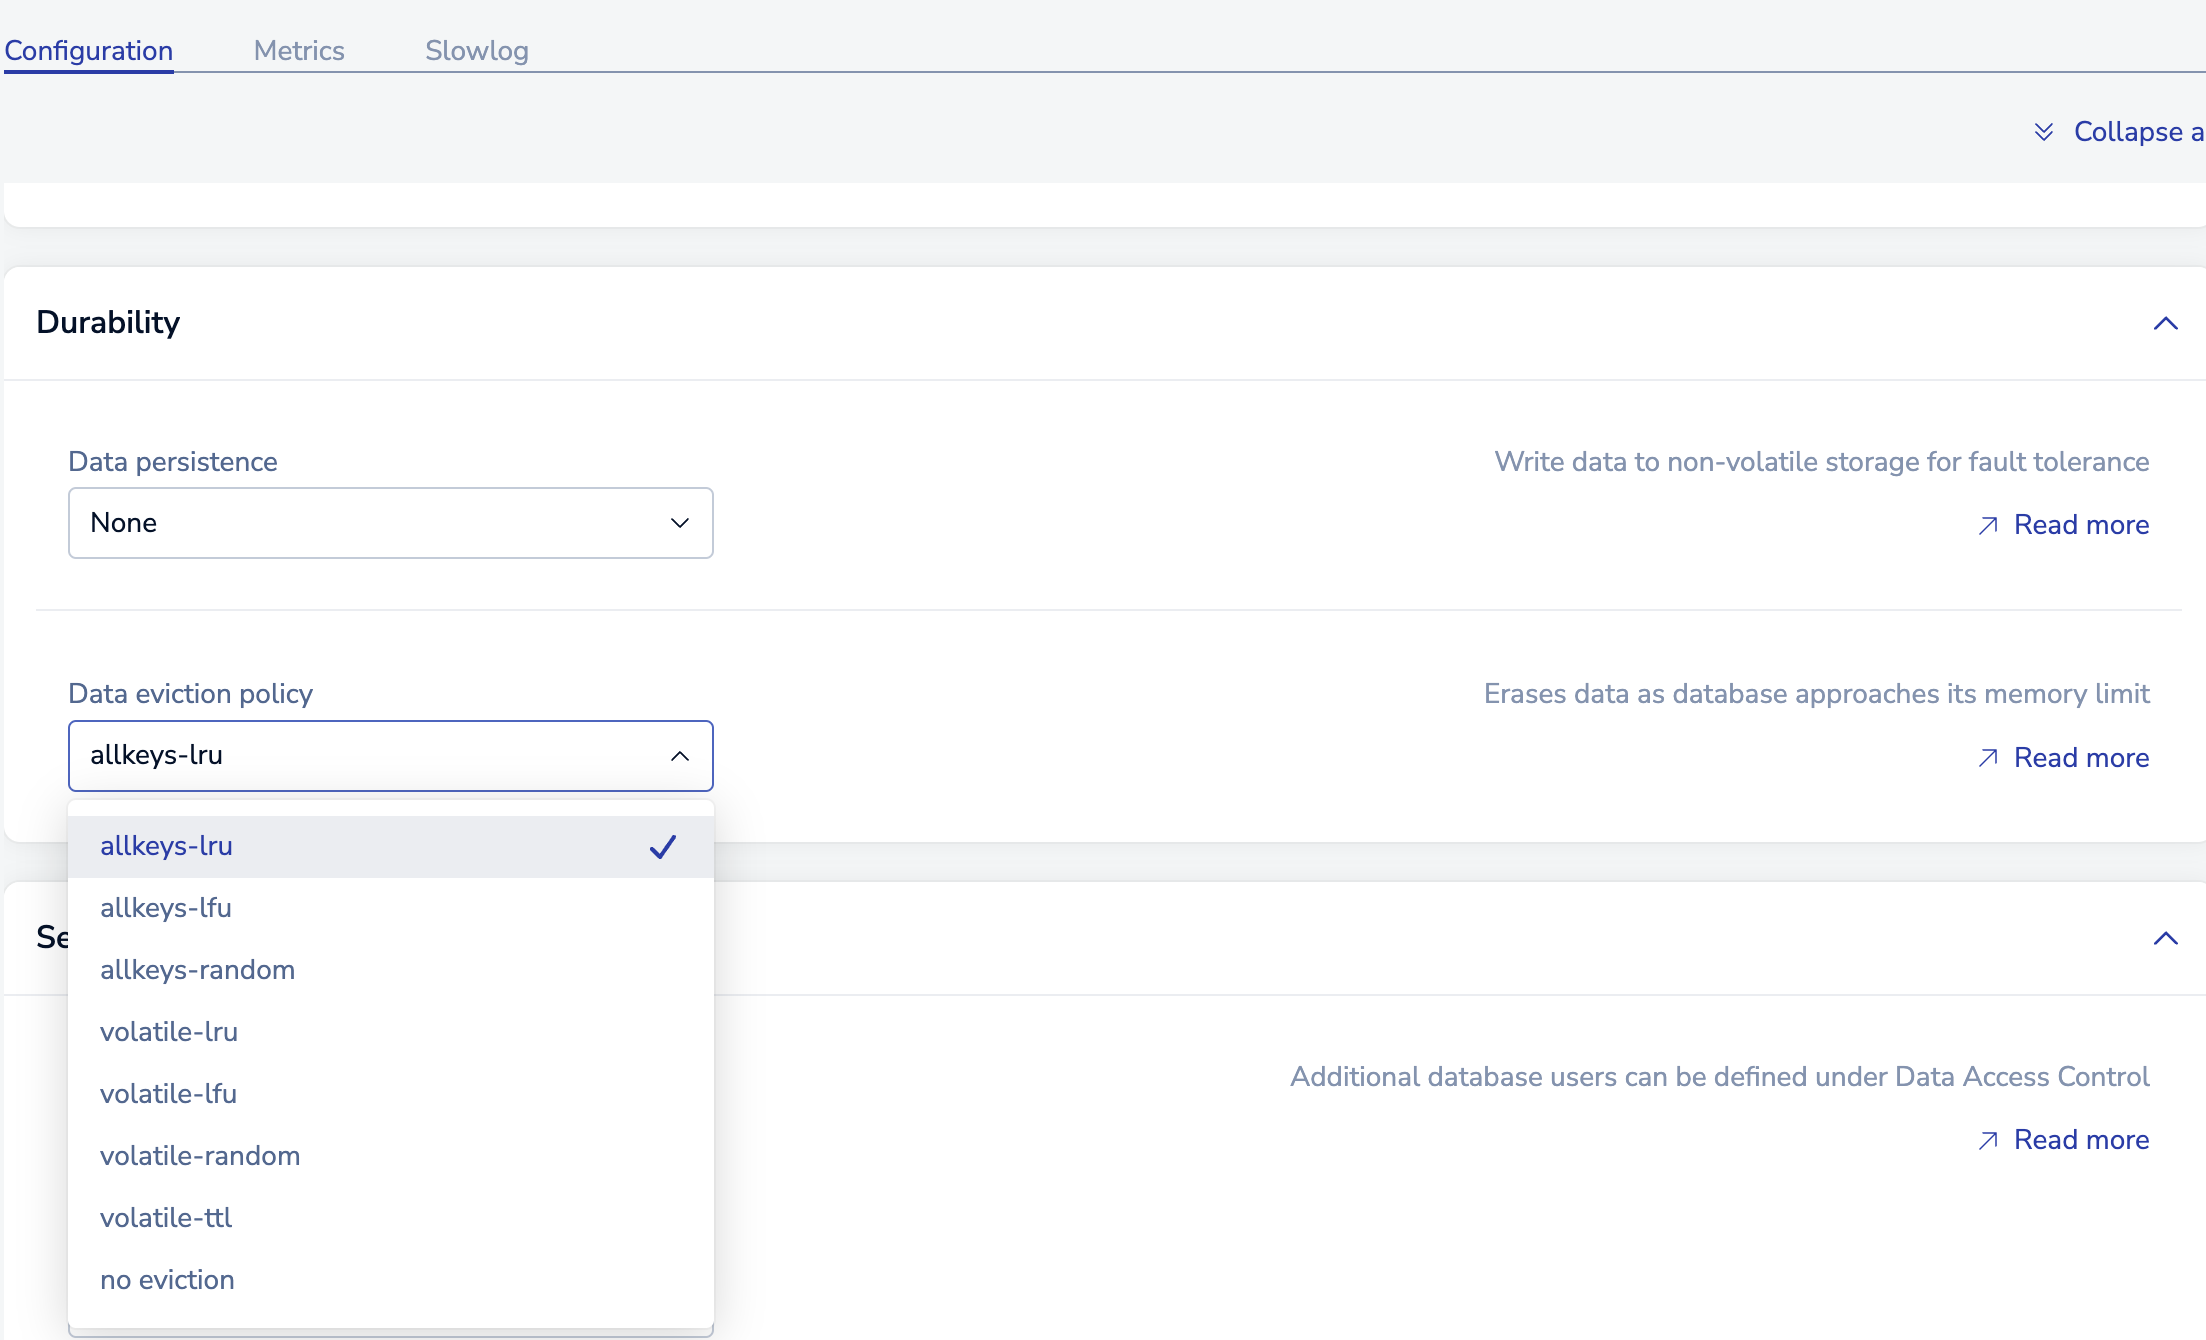
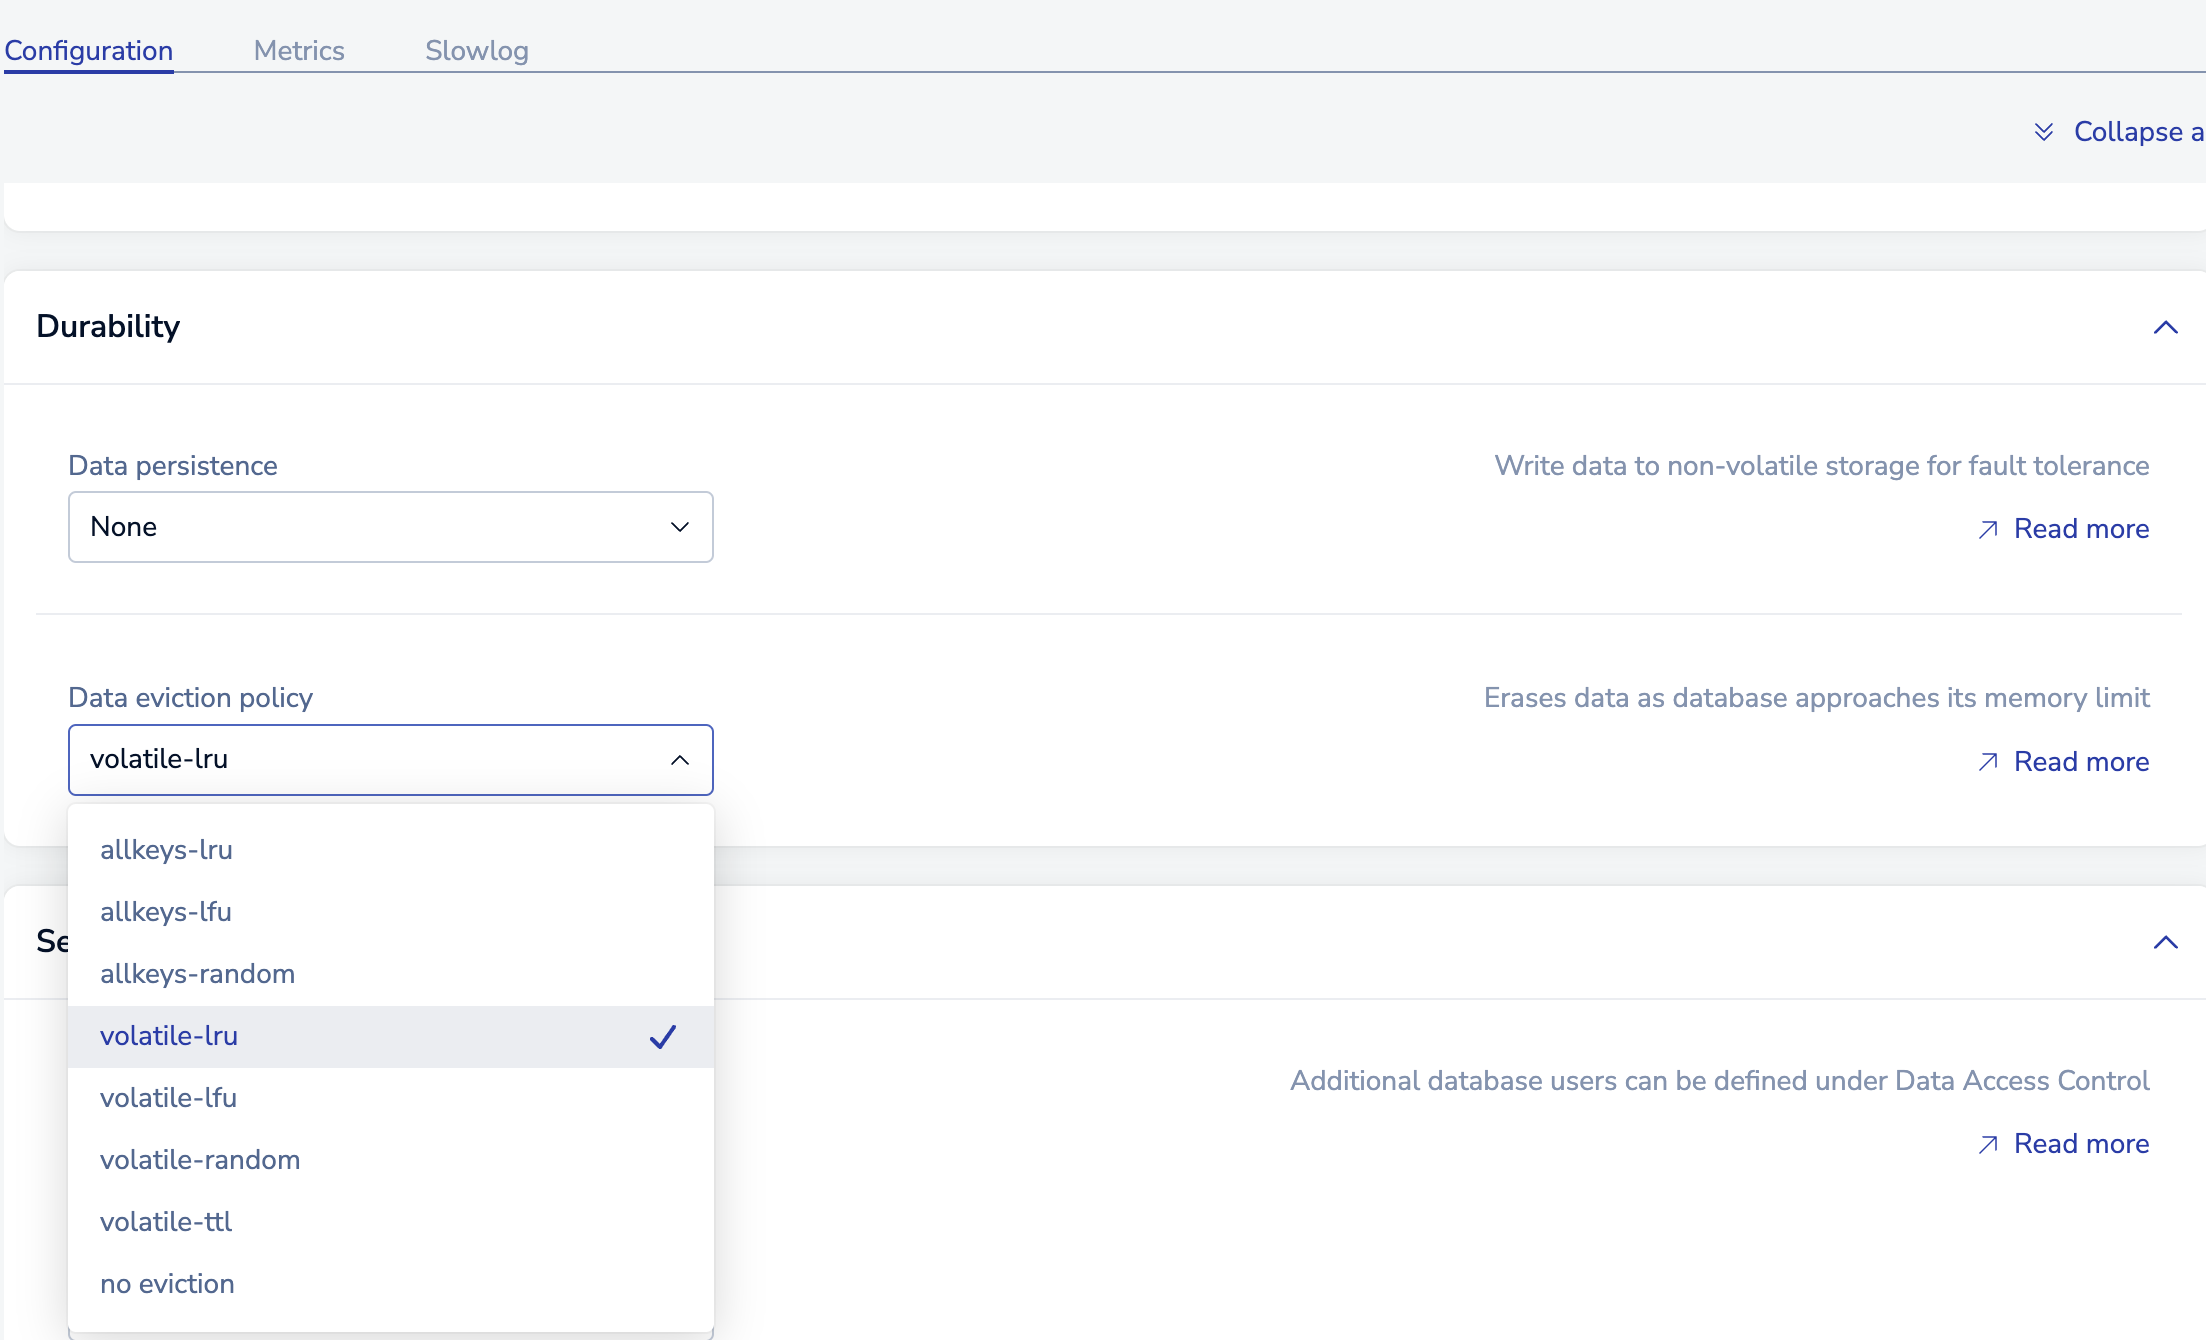
allow ttl in each call, documentation

diff --git a/README.md b/README.md
@@ -44,17 +44,19 @@ A few diferent encodings were tested to reduce size. Here are some measurement
 * Compressed json: 589896
 * Boopickle: 262216
 
-Make sure Redis is configured to use an LRU eviction policy, since this the optimal setting when
-using it as a cache. In Heroku's "Redis Cloud" add-on, this can be configured under 
-`Configuration`/`Durability`/`Data eviction policy`, where it should be set to `allkeys-lru` (preferred)
-or `volatile-lru` (which is the default):
+Make sure Redis is configured to use the `volatile-lru` eviction policy. This allows us to use it as a cache 
+for keys stored with a TTL, which is what we do here, while keeping a permanent entry for the version key.
+If the version key is missing or changes, the cache is flushed.
+
+In Heroku's "Redis Cloud" add-on, `volatile-lru` is the default at the time of writing of this, but it should
+be verified. This can be configured under `Configuration`/`Durability`/`Data eviction policy`:
 
 ![Heroku Redis Cloud volatility configuration](heroku-redis-volatility.png)
 
 ## Cache flushing
 
-The only reason for the remote values to be stale is if the old itc changes (happens not very often)
-`lucuma-itc` will check on startup and verify if the itc data has changed. If so it will flush the whole cache
+The only reason for the remote values to be stale is if the old ITC changes (happens not very often).
+`lucuma-itc` will check on startup and verify if the ITC version has changed. If so it will flush the whole cache.
 
 ## `git lfs` and Legacy ITC Code
 
